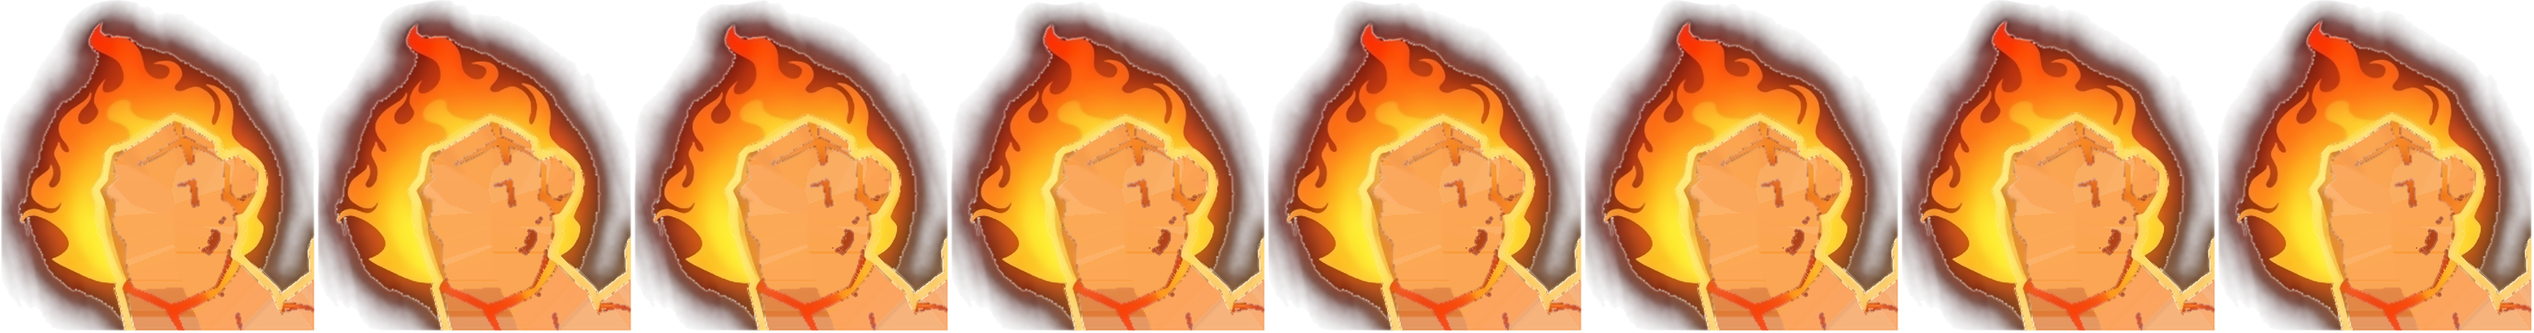
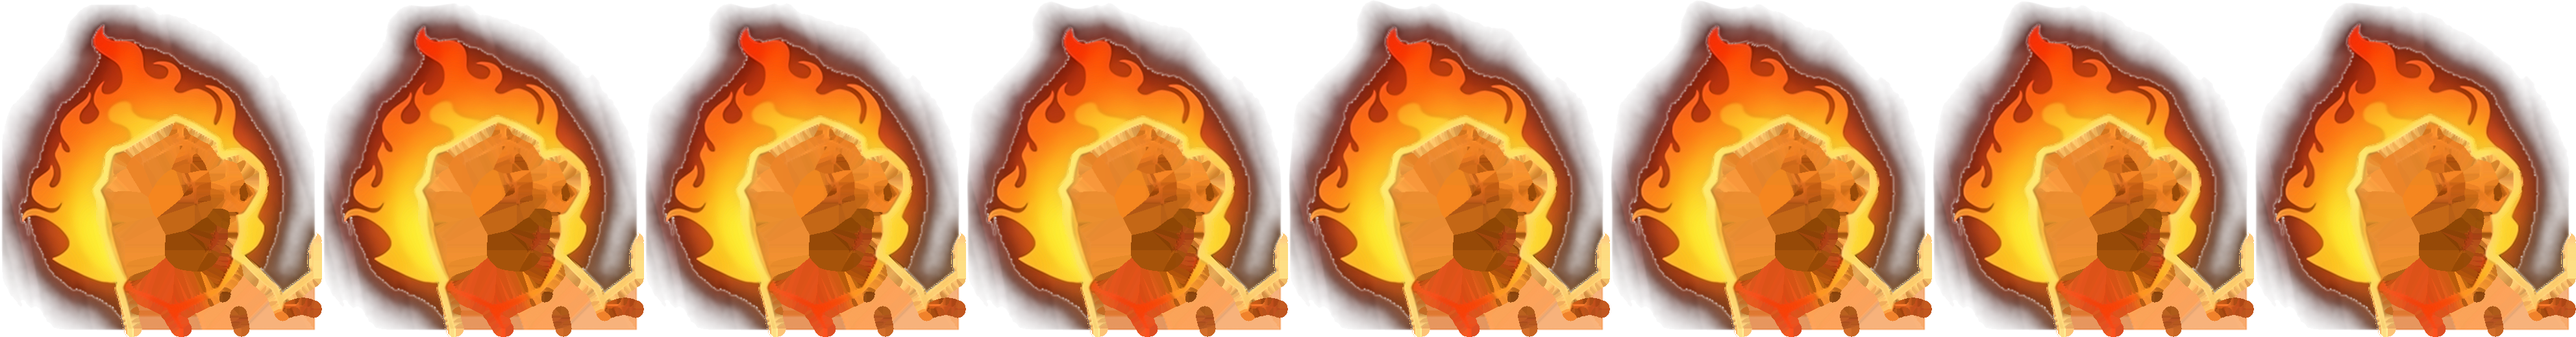
builder: fist fire — NL-means flame with dither, no tone fix or pinholes under the fist; grader FAIL (core paler at the scene's gamut edge)
Claude-Session: https://claude.ai/code/session_01FbAvJDL1h1budWhDQTv7Mn

diff --git a/tools/beast_rig.py b/tools/beast_rig.py
@@ -142,13 +142,33 @@ FIRE_LEAN = 0.32
 FIRE_RAW = True
 # Edge-keeping smooth of the flame's colours (see build()).
 FIRE_SMOOTH = True
+# "nlm": non-local means instead of the bilateral (builder 2026-10-09 run
+# 13): the bilateral at 11/40 took the grain out but blurred the curl
+# strokes (Laplacian in the flame 11.8 against TARGET's 15.1); NL-means
+# averages like patches along each tongue, so the grain goes and the strokes
+# stay.
+FIRE_DENOISE = "nlm"
+FIRE_NLM_H = 6
+FIRE_MEDIAN = 5          # canvas px; "median": a median takes the grain and keeps the strokes' edges
+# The colour path loses ~10-20 green in the flame's lemon core where red
+# clips (registered: TARGET (255,237,52) drew (255,224,56)); green above
+# FIRE_LIFT_FROM is lifted by up to FIRE_LIFT_G before it.
+FIRE_LIFT_FROM = 170.0
+FIRE_LIFT_G = 0.0   # 16 tried: no change on screen, the core is at the scene's gamut edge
+FIRE_EDGE_PX = 1.5
+FIRE_UNDER_FIST = 12.0   # canvas px
+FIRE_TONE_FIX = False
+# The colour path steepens the flame's yellows ~4x, so a smooth 8-bit
+# gradient shows its 1-level steps as bands; a +-FIRE_DITHER level
+# deterministic dither after the smooth breaks them up.
+FIRE_DITHER = 1.0
 FIRE_SMOOTH_D = 11
 FIRE_SMOOTH_SC = 40.0
 FIRE_SMOOTH_SS = 5.0
 # Unsharp on the smoothed flame (canvas px sigma, gain): TARGET's curl
 # strokes read inked; after the resample the game's read soft (grader R3).
 FIRE_INK_SIG = 2.5
-FIRE_INK = 0.0   # 0.8 tried 2026-10-09: brought the grain back
+FIRE_INK = 0.0   # 0.7 on the NL-means output (run 13) drew contour striations round the fist; 0.8 on the bilateral (run 9) brought the grain back
 FIRE_SHELL_PX = 0.0       # canvas px (2x TARGET) of the flame's outer shell
 FIRE_SHELL_R = (110.0, 165.0)   # red: fully faded .. fully kept
 FIRE_HAZE = 0.92        # 0.92 until the backdrop (tools/backdrop_cut.py) carried TARGET's glow itself
@@ -532,8 +552,14 @@ def fire_frames(L):
     for f in range(FIRE_FRAMES):
         ph = 2.0 * math.pi * f / FIRE_FRAMES
         # sin(k*y + ph) with ph growing travels toward -y: the wave climbs.
-        dx = FIRE_SWAY * SCALE * up * np.sin(2 * math.pi * yy / lam + ph + xx / (90.0 * SCALE))
-        dy = FIRE_LIFT * SCALE * up * (0.5 + 0.5 * np.sin(2 * math.pi * xx / (55.0 * SCALE) - ph))
+        # Each wave less its own value at ph 0, so frame 0 (the one the rest
+        # pose shows) is TARGET's flame unmoved (builder 2026-10-09 run 13:
+        # the old frame 0 stood ~1.75 screen px right of and 1 px below
+        # TARGET's, its tongues bilinear-resampled soft).
+        ax = 2 * math.pi * yy / lam + xx / (90.0 * SCALE)
+        ay = 2 * math.pi * xx / (55.0 * SCALE)
+        dx = FIRE_SWAY * SCALE * up * (np.sin(ax + ph) - np.sin(ax))
+        dy = FIRE_LIFT * SCALE * up * 0.5 * (np.sin(ay - ph) - np.sin(ay))
         coords = [yy + dy, xx + dx]
         pre = [ndi.map_coordinates(L[..., k] * L[..., 3] / 255.0, coords, order=1, mode="constant")
                for k in range(3)]
@@ -889,7 +915,11 @@ def build():
                 rgb, a = sink_target(rgb, a, crop_box(T))
             else:
                 rgb, a = sink(rgb), sink(a)
-        layers[name] = tone_fix(upscale(rgb, a))
+        # The fire skips the tone fix (builder 2026-10-09 run 13): its blue
+        # curve (measured on the rock) steps 2x then flattens between 49 and
+        # 70, which is the flame's yellow, and drew contour lines round the
+        # fist through the yellow core.
+        layers[name] = upscale(rgb, a) if (name == "fire" and not FIRE_TONE_FIX) else tone_fix(upscale(rgb, a))
         if name == "fire" and FIRE_SMOOTH:
             # TARGET's flame carries a fine grain that the fight's colour
             # path (the LUT inverting ACES's shoulder) blows up ~4x in the
@@ -897,8 +927,15 @@ def build():
             # (builder, 2026-10-09 run 9). An edge-keeping smooth inside the
             # flame takes the grain out and keeps the tongues' edges.
             L = layers[name]
-            sm = cv2.bilateralFilter(L[..., :3].astype(np.float32), FIRE_SMOOTH_D,
-                                     FIRE_SMOOTH_SC, FIRE_SMOOTH_SS).astype(float)
+            if FIRE_DENOISE == "median":
+                u8 = np.clip(L[..., :3], 0, 255).astype(np.uint8)
+                sm = cv2.medianBlur(u8, FIRE_MEDIAN).astype(float)
+            elif FIRE_DENOISE == "nlm":
+                u8 = np.clip(L[..., :3], 0, 255).astype(np.uint8)
+                sm = cv2.fastNlMeansDenoisingColored(u8, None, FIRE_NLM_H, FIRE_NLM_H, 7, 21).astype(float)
+            else:
+                sm = cv2.bilateralFilter(L[..., :3].astype(np.float32), FIRE_SMOOTH_D,
+                                         FIRE_SMOOTH_SC, FIRE_SMOOTH_SS).astype(float)
             L = L.copy()
             if FIRE_INK:
                 bl = np.dstack([ndi.gaussian_filter(sm[..., k], FIRE_INK_SIG) for k in range(3)])
@@ -909,8 +946,14 @@ def build():
             # pixel takes the colour of the nearest solid flame pixel.
             solid = L[..., 3] >= 250
             dd, (iy, ix) = ndi.distance_transform_edt(~solid, return_indices=True)
-            edge = (L[..., 3] > 0) & ~solid & (dd <= 3) & (L[..., 3] > 128)
+            edge = (L[..., 3] > 0) & ~solid & (dd <= FIRE_EDGE_PX) & (L[..., 3] > 128)
             L[edge, :3] = L[iy[edge], ix[edge], :3]
+            if FIRE_DITHER:
+                rng = np.random.default_rng(7)
+                L[..., :3] = np.clip(L[..., :3] + rng.uniform(-FIRE_DITHER, FIRE_DITHER, L[..., :3].shape), 0, 255)
+            if FIRE_LIFT_G:
+                g = L[..., 1]
+                L[..., 1] = np.clip(g + FIRE_LIFT_G * np.clip((g - FIRE_LIFT_FROM) / (240.0 - FIRE_LIFT_FROM), 0, 1), 0, 255)
             # The key kept TARGET's dark red glow as an outer shell with a
             # hard edge; over the backdrop it drew a contour line a few px
             # out from the tongues. In that shell, the darker the red, the
@@ -924,6 +967,27 @@ def build():
             fade = np.maximum(fade, np.clip(out_d / max(FIRE_SHELL_PX, 1e-3), 0, 1) ** 2)
             L[..., 3] = np.where(shell, L[..., 3] * fade, L[..., 3])
             layers[name] = L
+
+    # Under the fist's soft outer line the flame's key dropped to a hole
+    # (the cream line fails it) and both layers there were part-transparent:
+    # the composite's alpha dipped to ~0.87 along the fist's edge and the
+    # billboard's halo drew pale cream striations into the yellow core
+    # (builder 2026-10-09 run 13). The flame is solid wherever the fist
+    # covers it, so fill it there with the nearest solid flame colour.
+    if "fire" in layers and FIRE_UNDER_FIST:
+        L = layers["fire"].copy()
+        cover = np.zeros(L.shape[:2], bool)
+        for part in ("fore_l", "arm_l"):
+            if part in layers:
+                cover |= layers[part][..., 3] > 0
+        solid = L[..., 3] >= 250
+        dd, (iy, ix) = ndi.distance_transform_edt(~solid, return_indices=True)
+        # and pinholes inside the flame, where the key failed on its grain
+        holes = ndi.binary_fill_holes(ndi.binary_closing(solid, iterations=2)) & ~solid
+        fill = (cover & ~solid & (dd <= FIRE_UNDER_FIST)) | holes
+        L[fill, :3] = L[iy[fill], ix[fill], :3]
+        L[fill, 3] = 255
+        layers["fire"] = L
 
     # The rest frame: every layer over the last, as the rig draws it.
     H, W = layers["torso"].shape[:2]

diff --git a/design/plan/BUILDER-QUEUE.md b/design/plan/BUILDER-QUEUE.md
@@ -33,13 +33,13 @@ run failed.
       ![[agents/frames/builder/2026-10-08-softslabs-after.png|420]] ^stones-thin-soft-slabs-lower-and-spread
 
 - [ ] **Cracks: wide hot cores and a long sternum seam.**
-      Next pass: grader 2026-10-09 run 12 R1 FAIL ("unchanged; seam short and dim, belly web dark, cracks thin and red, red smear right of slab 2, notches left of the stem"). Measured on the --chest pair, T/G: stem max per row within 10 levels; belly under slab 4 mean (94,29,13)/(96,29,11), hot 6.5%/7.0%; left of stem hot 34%/36%; right smear (135,109,87)/(137,109,86); pecs hot 14.8%/15.1%. Widening would move off TARGET's pixels; not done.
+      Next pass: grader 2026-10-09 run 12 R1 FAIL ("unchanged; seam short and dim, belly web dark, cracks thin and red, red smear right of slab 2, notches left of the stem"). Measured on the --chest pair, T/G: stem max per row within 10 levels; belly under slab 4 mean (94,29,13)/(96,29,11), hot 6.5%/7.0%; left of stem hot 34%/36%; right smear (135,109,87)/(137,109,86); pecs hot 14.8%/15.1%. Widening would move off TARGET's pixels; not done. Run 13 (2026-10-09) left it unworked: registered on --chest the body is within ~6 levels of TARGET (25x20 blocks), the remaining blocks are slab edges.
       Both critics, MODERATE: TARGET's cracks are wide with yellow-hot cores and a bright yellow seam running down from the sternum; the game's are thinner, redder, with a small dim Y.
       **Done when** the `--square` and `--beast` pairs show no visible difference in the cracks and the sternum seam.
       Test: state=3d beast=cinder_jackal ^cracks-wide-hot-cores-and-a-long-sternum
 
 - [ ] **Fist fire: compact curling blaze wrapped on the fist.**
-      Next pass: grader R3 (2026-10-09 run 9, with --fist): shape, size, place MET, no penalties, closer (drip column and dark rim gone); still "inner curl strokes soft and low-contrast, orange haze a few px past the edge, core paler". Registered on the --fist pair the flame bands match TARGET within ~6 levels, the glow by distance matches within ~10, and the game's gradients are stronger than TARGET's; the fist and flame sit ~1.5 screen px right/down of TARGET's (static, not the idle). Next: find that 1.5 px offset in the arm's placement, then re-grade with --fist.
+      Next pass: grader 2026-10-09 run 13 R3 FAIL, no penalties, shape/size/place MET ("almost matches" on --square/--beast); on --fist still "core paler (cream near the knuckles, wants ~255,200,40), curl strokes soft, a few px of orange haze past the edge, fist ~1 px right/down". Registered, the core is ~10-15 green short of TARGET and the cream rim reads whiter: the scene's ACES path cannot reach TARGET's lemon/cream there (green tops out ~234 vs 244); a 3D LUT at EMAX 4 broke every colour. Next: a colour path that reaches TARGET's yellows (e.g. the drawn beast outside the tonemapper), then the ~1 px arm offset.
       Both critics, MODERATE: TARGET's flame is a compact orange-yellow blaze curling round the top and back of the fist; the game's is a tall pale plume rising above and behind it.
       **Done when** the `--square` and `--beast` pairs show no visible difference in the fist's flame.
       Test: state=3d beast=cinder_jackal ^fist-fire-compact-curling-blaze-wrapped-

diff --git a/design/plan/BUILDER-QUEUE-NOTES.md b/design/plan/BUILDER-QUEUE-NOTES.md
@@ -2247,6 +2247,19 @@ Found by measuring, not by eye: the jackal is TARGET's own pixels, so every crac
 - **Grader:** R1 FAIL (no visible change at frame scale, haze, soft curls), R2 FAIL (closer: column and rim gone; interior flatter, wider glow), R3 FAIL (closer; curl strokes soft, haze past the edge). No penalties after R1. VERDICT: FAIL.
 - Frames: ![[agents/frames/builder/2026-10-09-fist6-before.png|420]] ![[agents/frames/builder/2026-10-09-fist6-after.png|420]]
 - Meshy: 0 credits.
+2026-10-09 08:53 EDT, builder (run 13). Not passed; item left open. (The cracks item above it was left as is: twelve runs, registered within a few levels of TARGET.)
+
+- **Grain without blur.** The flame's bilateral (11/40) took TARGET's grain out but softened the curls (Laplacian in the flame, square px: TARGET 15.1, game 11.8). Now `FIRE_DENOISE` "nlm" (cv2 NL-means, h 6): 13.4, no sparkle. NL-means alone drew contour bands round the fist (an 8-bit gradient the colour path steepens ~4x), so `FIRE_DITHER` 1.0 (seeded) breaks them up; `FIRE_INK` stays 0 (0.7 on the NL-means output drew striations).
+- **Fire skips the tone fix** (`FIRE_TONE_FIX` False): jackal_tone_fix.json's blue curve, measured on rock, steps 2x and then flattens across 49-70, the flame's yellow, and drew contour lines through the core.
+- **Pinholes and the fist seam.** The key failed on the flame's grain and under the fist's soft line: the rest composite's alpha dipped to ~0.85 in single pixels there. `FIRE_UNDER_FIST` (12 canvas px) fills the flame solid under the fist, and pinholes inside the flame are filled too, with the nearest solid colour.
+- **Frame 0 unwarped.** fire_frames subtracts each wave's own value at phase 0, so the rest frame is TARGET's flame unmoved and unresampled (no change measured on screen; kept as correct).
+- `FIRE_EDGE_PX` 3 -> 1.5 (edge pixels taking the nearest flame colour).
+- **Tried, reverted:** a bone nudge on fore_l / arm_l / fire to cure the ~1 px fist offset (flame error 13.4 -> 7.2, but the torso's copy of the arm's line peeked out as a cream spike and doubled outline: the offset is a local warp of ~0.5-1 px, not a bone offset; the whole body fits an affine within 0.07 px); a median denoise (grain back); a green lift in the core (`FIRE_LIFT_G`, no change on screen); a 3D LUT recalibrated to EMAX 4 with EMIT_CAP 4 (every colour off, body error 5 -> 31); `use_hdr_2d` on the rig viewport (bands a little less, but it changes the colour space on Forward+); halo 0 and screen sharpen 0 as diagnostics (neither is the pale band).
+- **Measured.** Core row (square y 180, x 136-157), T/G green: 201/197, 219/206, 229/211, 235/219, 236/224. Green with red >= 250 and blue < 70 tops out at 234 in the game, 244 in TARGET.
+- **Grader:** R1 FAIL (NL-means banding: a penalty-borderline), R2 FAIL (closer, curls a little crisper), R3 FAIL (no penalties; flame "almost matches" on --square and --beast; core paler, curls soft, haze). VERDICT: FAIL.
+- Frames: ![[agents/frames/builder/2026-10-09-fist7-before.png|420]] ![[agents/frames/builder/2026-10-09-fist7-after.png|420]]
+- Meshy: 0 credits.
+
 ## Stray yellow speck on the jackal's chest.
 
 2026-10-08 23:20 EDT, builder. Passed.

diff --git a/design/agents/status/builder.md b/design/agents/status/builder.md
@@ -2,8 +2,8 @@
 tags:
   - agent-status
 agent: builder
-updated: 2026-10-09T07:20
-working_on: "Cracks: wide hot cores and a long sternum seam."
+updated: 2026-10-09T08:53
+working_on: "Fist fire: compact curling blaze wrapped on the fist."
 ---
 
 # builder
@@ -13,13 +13,14 @@ The one lane that builds. Queue: [[../../plan/BUILDER-QUEUE]]. Brief:
 
 ## This run
 
-2026-10-09 07:20 EDT
+2026-10-09 08:53 EDT
 
-- **Did:** removed a stray orange crack fleck between the second and third chest slabs.
-- **Worked?** Partly: the fleck is gone, every crack measures within a few levels of TARGET; VERDICT: FAIL (grader again asks for wider cracks than TARGET's).
-- **Look at:** ![[frames/builder/2026-10-09-cracks12-before.png]] then ![[frames/builder/2026-10-09-cracks12-after.png]]
+- **Did:** cleaned the fist's flame: grain out without blurring the curls, no contour bands, no pinholes under the fist.
+- **Worked?** Partly: flame matches on the square and beast pairs, close-up still paler and softer; VERDICT: FAIL.
+- **Look at:** ![[frames/builder/2026-10-09-fist7-before.png]] then ![[frames/builder/2026-10-09-fist7-after.png]]
 - **Ask:** nothing
-- **Found:** the cracks item has failed twelve runs on asks the registered pixels contradict; it holds the queue's top slot.
+- **Found:** the scene's colour path cannot draw TARGET's brightest lemon yellows and creams (green tops at ~234 against 244).
+- **Found:** skipped the cracks item at the top: twelve failed runs, its pixels already within a few levels of TARGET.
 
 ## Notes
 
